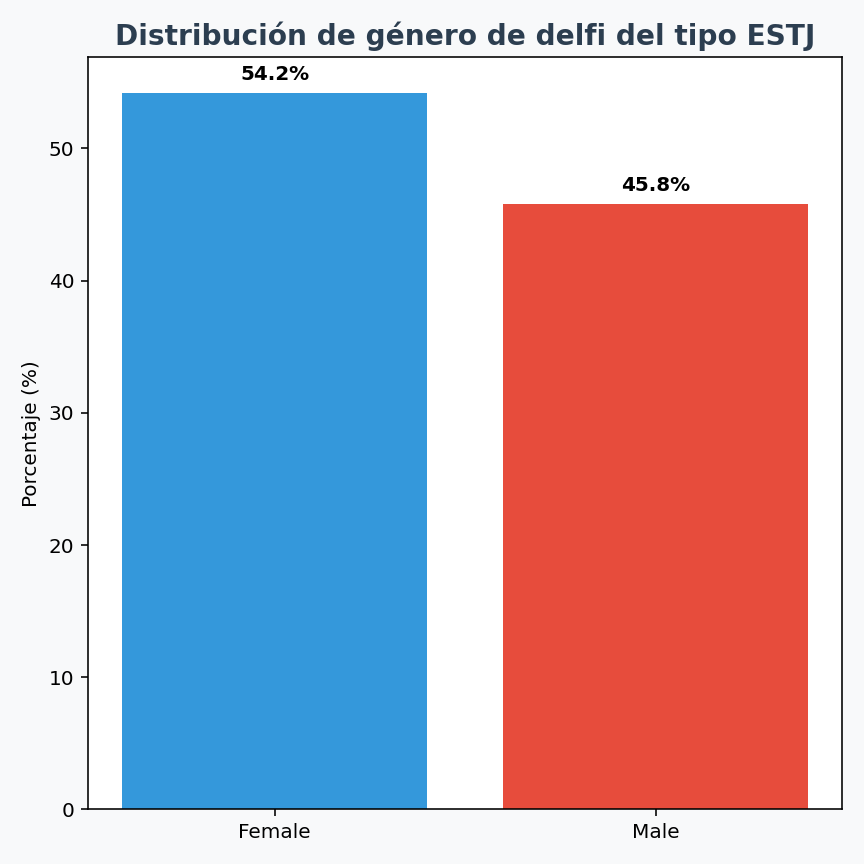
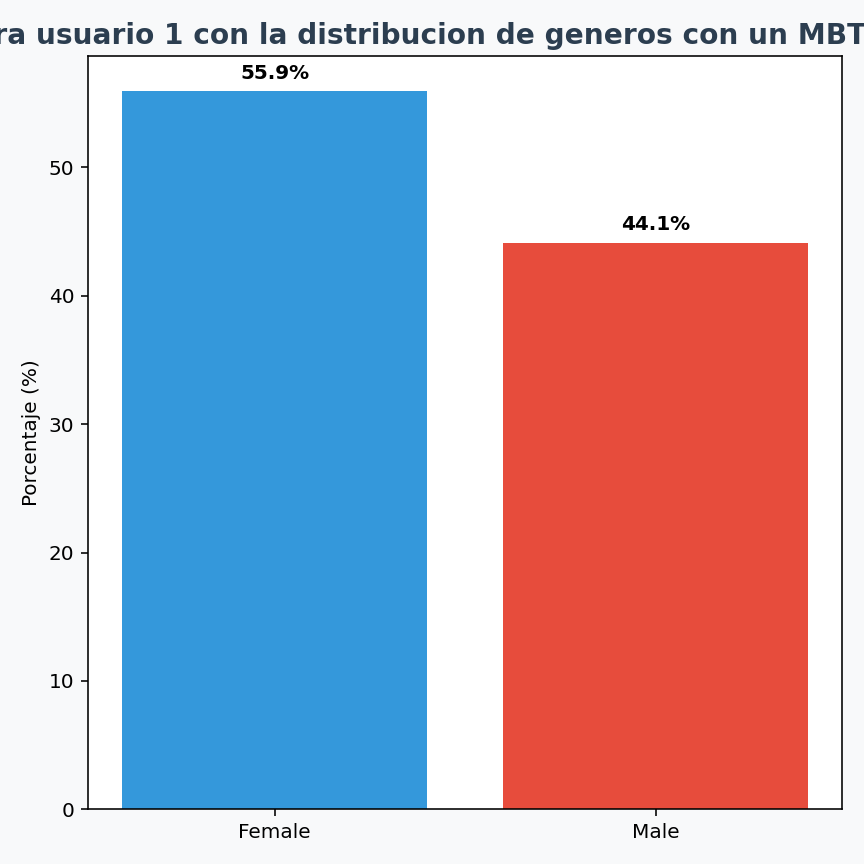
cambios pocos

diff --git a/src/utilidades.py b/src/utilidades.py
@@ -10,9 +10,7 @@ Incluye:
 
 def imprimir_banner(): 
     """Imprime el banner de bienvenida del sistema."""
-    print(""" BIENVENIDOS AL EXPLORADOR DE PERSONALIDADES DE MBTI. Es de uso\n
-          educativo y exploratorio unicamente. Presentado por estudientes de la UdeSa\n
-    IMPORTANTE: no es el test oficial del MBTI, simplemente es una inspiracion del mismo""")
+    print(""" BIENVENIDOS AL EXPLORADOR DE PERSONALIDADES DE MBTI. Es de uso educativo y exploratorio unicamente. Presentado por estudientes de la UdeSa\n""")
 
 
 def imprimir_separador(largo: int = 55): #imprime una línea de guiones en la consola para separar visualmente secciones de texto.
